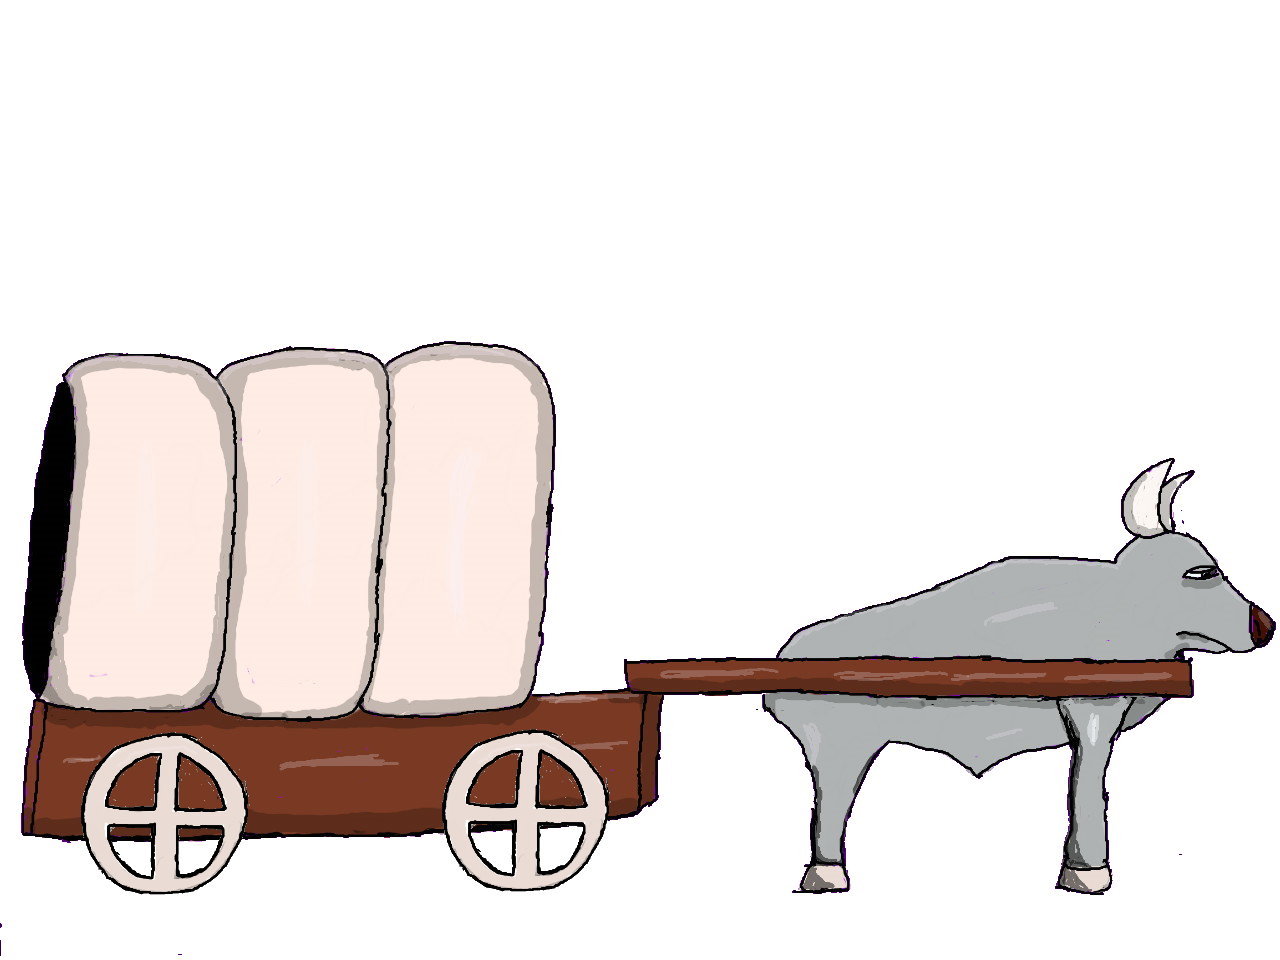
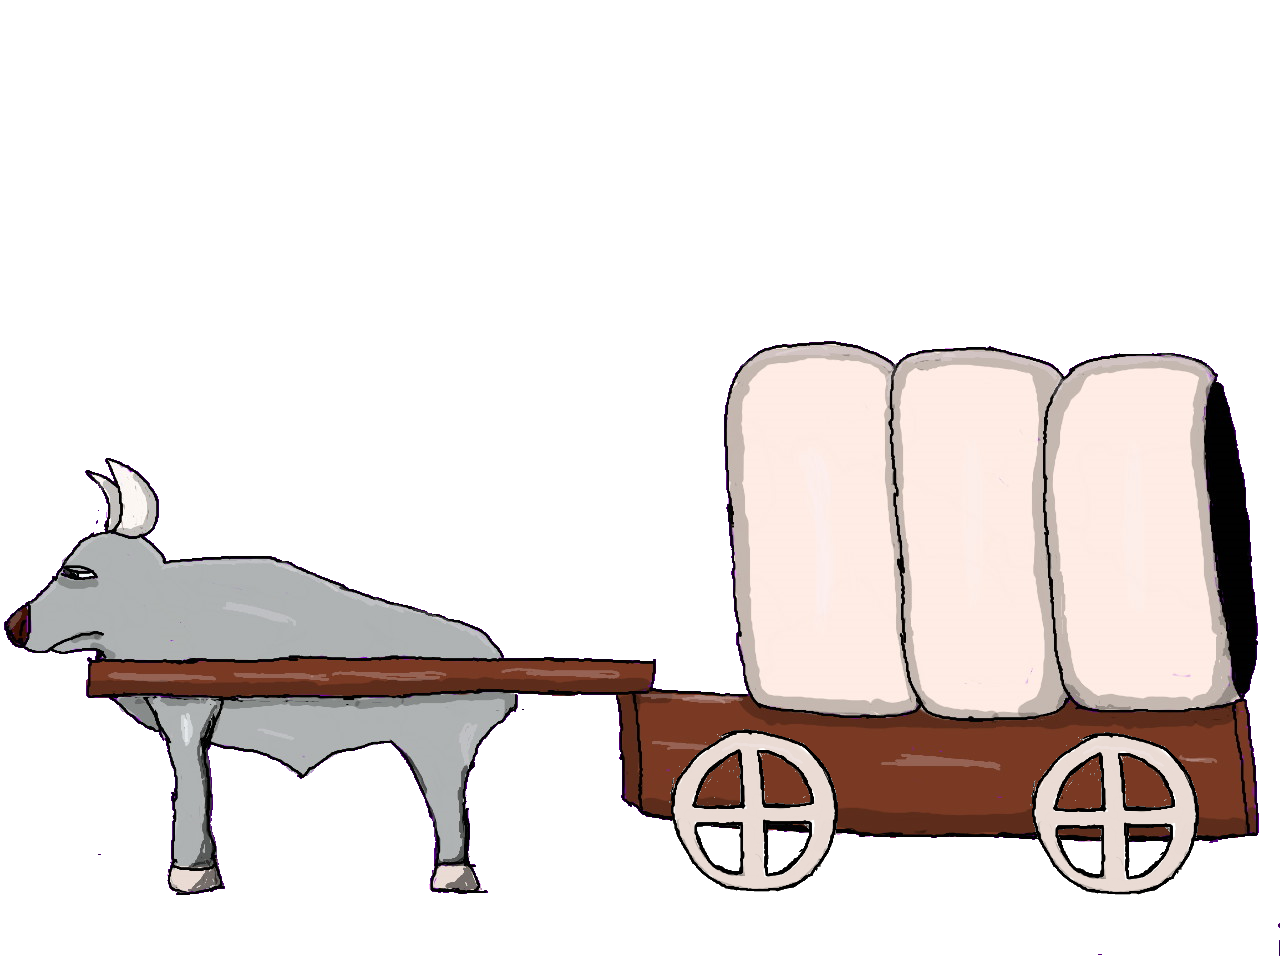
walking animation flipped + maingame comments

diff --git a/mainGame.js b/mainGame.js
@@ -11,22 +11,23 @@ function travelTrail() {
 	if(gameStatus[WEATHER] == COLD || gameStatus[WEATHER] == VERYRAINY){
 		if(supplies[CLOTHING] < 5) reduceTeamHP(2*(5-supplies[CLOTHING]));
 	}
-    if (gameStatus[PACE] == STEADY) {
+    if (gameStatus[PACE] == STEADY) {//if the pace is steady the travel distance is short for that day, but you have time to rest so you gain a small amount of health
         totalTraveled += 20;
         tempTraveled += 20;
         addTeamHP(1);
     }
-    else if (gameStatus[PACE] == STRENUOUS) {
+    else if (gameStatus[PACE] == STRENUOUS) {//if pace is strenuous the travel distance is long for that day but you don't have much rest time so you lose some health 
         totalTraveled += 30;
         tempTraveled += 30;
 		reduceTeamHP(2);
     }
-    else if (gameStatus[PACE] == GRUELING) {
+    else if (gameStatus[PACE] == GRUELING) {//if pace is grueling the travel distance is very long for that day, but you don't have any time to rest and lose a lot of health
         totalTraveled += 40;
         tempTraveled += 40;
 		reduceTeamHP(5);
     }
-	//Random event 20% chance
+	//Random event; 20% chance something bad happened to your party beyond your control; random even function is called to decide which event it is. if the even
+	// is a broken wagon part then the wagon parts are checked to see if you have any spare to replace the wagon part
 	if(Math.floor(Math.random() * (5)) == 0){
 		randomEvent();
 		if(brokenPart < 3){
@@ -34,7 +35,7 @@ function travelTrail() {
 			else randMsg+= "<br>You have no spare parts to replace it!";
 		}
 	}
-	//For injured and dying oxen
+	//For injured and dying oxen. determines if an oxen loses or gains health. The chances are higher that you heal the cattle if you chose cowboy 
 	else{
 		var rand = 8;
 		var heal = 5;
@@ -54,8 +55,8 @@ function travelTrail() {
 		else{
 			//Ask if they wish to stop here
 			totalTraveled = totalTraveled - (tempTraveled - distance[0]);
-			checkTombstone(1);
-			//Comment out the rest and uncomment checkTombstone(1) when ready
+			checkTombstone(1);//checks if a tombstone is in the area
+			//former tombstone testing code don't pay attention to it
 			/*
 			tempTraveled = 0;
 			currLocation = locations.shift();
@@ -83,7 +84,7 @@ function displayTombstone(index, num){
 			tombPrev.splice(index, 1);
 			tombNext.splice(index, 1);
 			tombMiles.splice(index, 1);
-			checkTombstone(num);
+			checkTombstone(num);//check fot other tombstones after this 
         }
     });
 }
@@ -92,12 +93,12 @@ function displayTombstone(index, num){
 function askTombstone(index, num){
 	document.getElementsByClassName("container")[0].innerHTML = "<p>You pass over a grave. Would you like to take a closer look?<br><br>\
 	<button id='tombYes' class='button'><span>Yes</span></button><br><button id='tombNo' class='button'><span>No</span></button></p>";
-	$("#tombYes").click(function(){
+	$("#tombYes").click(function(){//if yes then displaytombstone is called and the grave is shown
 		$(this).unbind();
 		$("#tombNo").unbind();
 		displayTombstone(index, num);
 	});
-	$("#tombNo").click(function(){
+	$("#tombNo").click(function(){//if no then display tombstone is not called and more tomstones are checked for
 		$(this).unbind();
 		$("#tombYes").unbind();
 		tombMsg.splice(index, 1);
@@ -137,6 +138,7 @@ function walk(){
 	document.getElementById("msg").innerHTML = "";
 	var f = 0;
 	var pace = .5;
+	//pace determines the speed of the animation. the pace is determined by the gameStatus[PACE]. the fast the in game pace, the faster the animation
 	if(gameStatus[PACE] == STEADY)
 		pace == 2;
 	else if (gameStatus[PACE] == STRENUOUS)
@@ -144,7 +146,7 @@ function walk(){
 	else if (gameStatus[PACE] == GRUELING)
 		pace == .5;
 	var id = setInterval(frame, 5);
-    function frame() {
+    function frame() {//every 50*pace iterations the frame is changed. it goes through 2 loops before stopping
 		if (f == 0 || f == 200* pace){
 			$("#ok").attr("src", "image/Frame1.png");
 		}
@@ -157,7 +159,7 @@ function walk(){
 		else if (f == (150 * pace)|| f == (350 * pace)){
 			$("#ok").attr("src", "image/Frame4.png");
 		}
-        if (f == 400) {
+        if (f == 400 * pace) {//interval clears and travel trail is called once finished
 			$("#ok").attr("src", "image/Frame1.png");
             clearInterval(id);
 			travelTrail();
@@ -187,7 +189,7 @@ function mainGame() {
 			<div id='walking'><img src='image/mountain.JPG' id = 'col' alt='Mountain View' style='width:900px; height:350px; left:45%; margin-left: -350; position:absolute; background-color: black;'>\
 			<img src='image/Frame1.png' id='ok' style = 'position:absolute; width: 180px; length: 180px; left: 50%; margin-left:-50px; margin-top:200px' alt='Mountain View'><div>";
     document.getElementsByClassName("container")[0].innerHTML = t;
-    $(document).keypress(function (e) {
+    $(document).keypress(function (e) {//when space button is clicked you travel and go to the next day
         if (e.keyCode == SPACEBAR) {
 			$("#checkOptions").unbind();
             $(this).unbind();
@@ -208,9 +210,9 @@ function lostGame(){
 	document.getElementsByClassName("container")[0].innerHTML = "<h1>YOU LOSE!!!</h1><p>Enter a message for your grave.</p>\
 	<form name='form2' action='tombstone.php' method='post'><input type='hidden' name='tempTraveled'></input><input type='hidden' name='leaderName'></input><input type='hidden' name='nextLocation'></input><input type='hidden' name='prevLocation'></input><input type='text' val='' name='messageInput' id='messageInput'></input><br><input type='submit' name='submitButton' class='button'></input></form>";															
 	
-	console.log(tempTraveled);
-	console.log(characters[0]);
-	
+	console.log(tempTraveled);//for testing
+	console.log(characters[0]);//for testing
+	//once message is input, the data is sumbitted to the database
 	var msgInput = document.getElementById('messageInput').value;
 	document.form2.prevLocation.value = prevLocation;
 	document.form2.nextLocation.value = locations[0];

diff --git a/game1.js b/game1.js
@@ -420,7 +420,7 @@ function finishIntro() {
 function storeGreeting() {
     console.log("test");
     var t = "<p>Hi, I'm Krunal! I see you're going to Oregon, and it just so happens that I have some very useful supplies you may need. </p>\
-            <img src='image/P2.png' alt='HTML5 Icon' style='position: relative; left: 100px; width: 15%;'></img>\
+            <img src='image/Krunal.png' alt='HTML5 Icon' style='position: relative; left: 100px; width: 15%;'></img>\
 			<ol class='a'>\
                 <li1>1. A team of oxen to pull your wagon</li1><br><br>\
                 <li1>2. Clothing for both summer and winter</li1><br><br>\
@@ -440,7 +440,7 @@ function storeGreeting() {
 function initStore() {
     var tempBalance = supplies[MONEY] - ((price[OXEN_COST] * tempSupplies[OXEN]) + (price[CLOTHING_COST] * tempSupplies[CLOTHING]) + (price[FOOD_COST] * tempSupplies[FOOD]) + (price[BAIT_COST] * tempSupplies[BAIT]) + (price[WAGON_COST] * tempSupplies[PARTS]));
     var t = "<h3>Krunal's General Store</h3><h4>Independence, Missouri<br>" + months[month] + " 1, 1848</h4>\
-            <img src='image/P2.png' alt='HTML5 Icon' style='position: fixed; left: 200px; width: 15%; top: 170px;'></img>\
+            <img src='image/Krunal.png' alt='HTML5 Icon' style='position: fixed; left: 200px; width: 15%; top: 170px;'></img>\
 			<ol class='b'><li1>1. Oxen = $" + (price[OXEN_COST] * tempSupplies[OXEN]) + "&nbsp&nbsp&nbsp <button class='button button1' value='Oxen' onclick='initBuy(this.value)'><span>Buy!</span></button> </li1><br>\
             <li1>2. Clothes = $" + (price[CLOTHING_COST] * tempSupplies[CLOTHING]) + " <button class='button button1' value='Clothes' onclick='initBuy(this.value)'><span>Buy!</span></button> </li1><br>\
             <li1>3. Food = $" + Number(Math.round((price[FOOD_COST] * tempSupplies[FOOD]) + 'e2') + 'e-2') + "&nbsp&nbsp&nbsp <button class='button button1' value='Food' onclick='initBuy(this.value)'><span>Buy!</span></button> </li1><br>\
